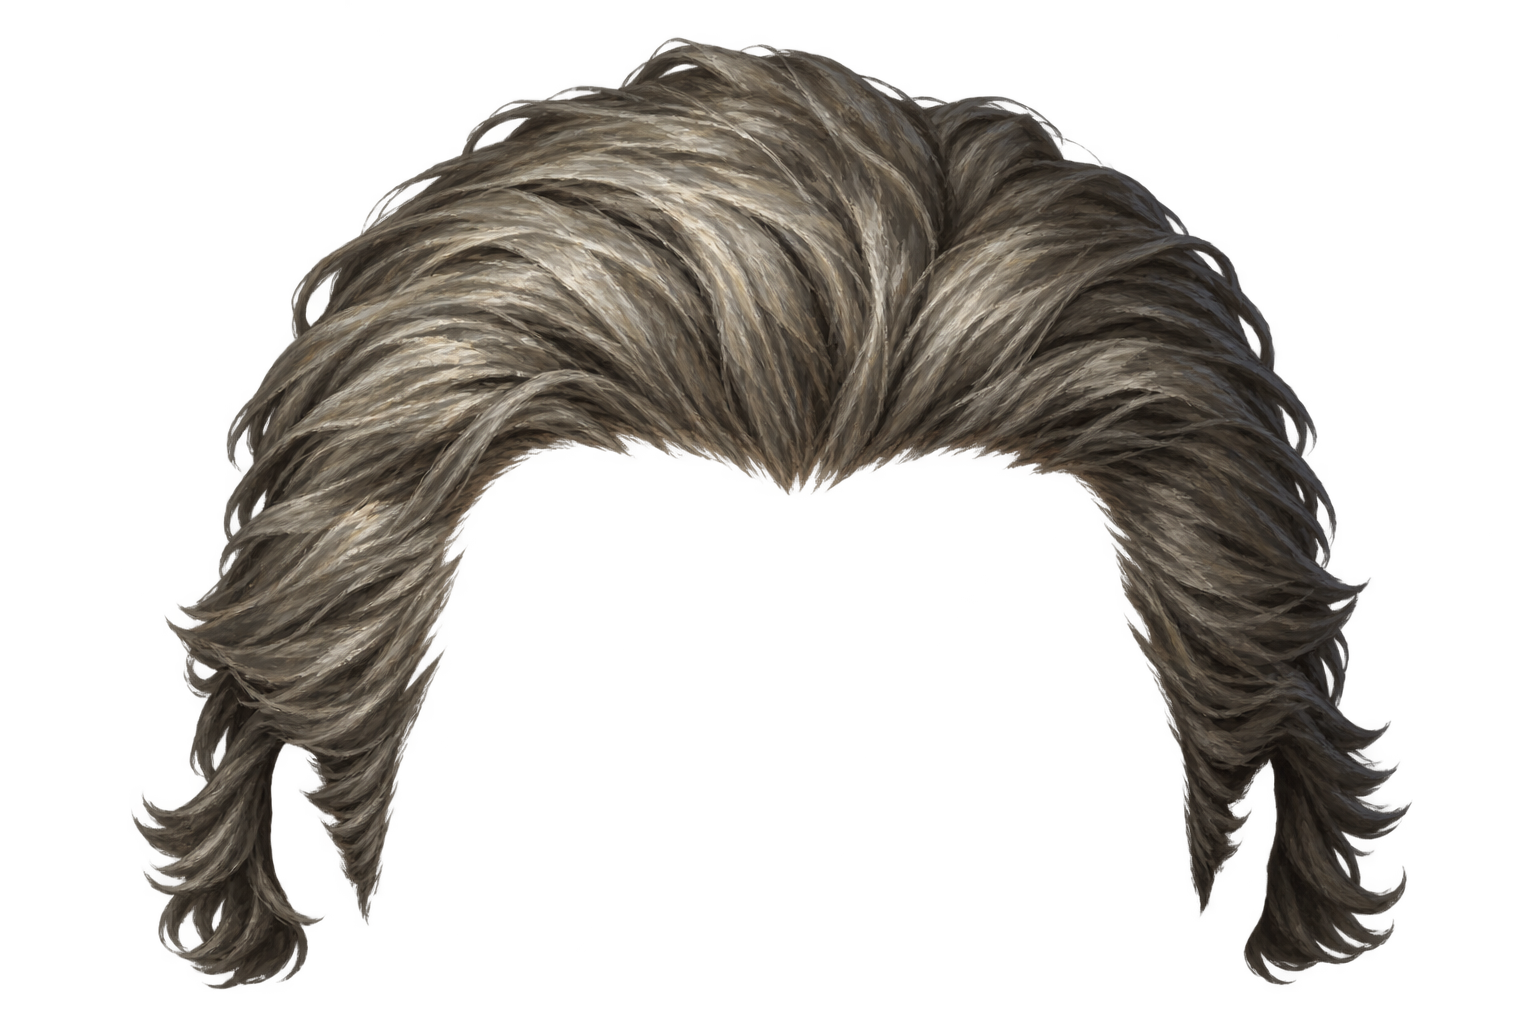
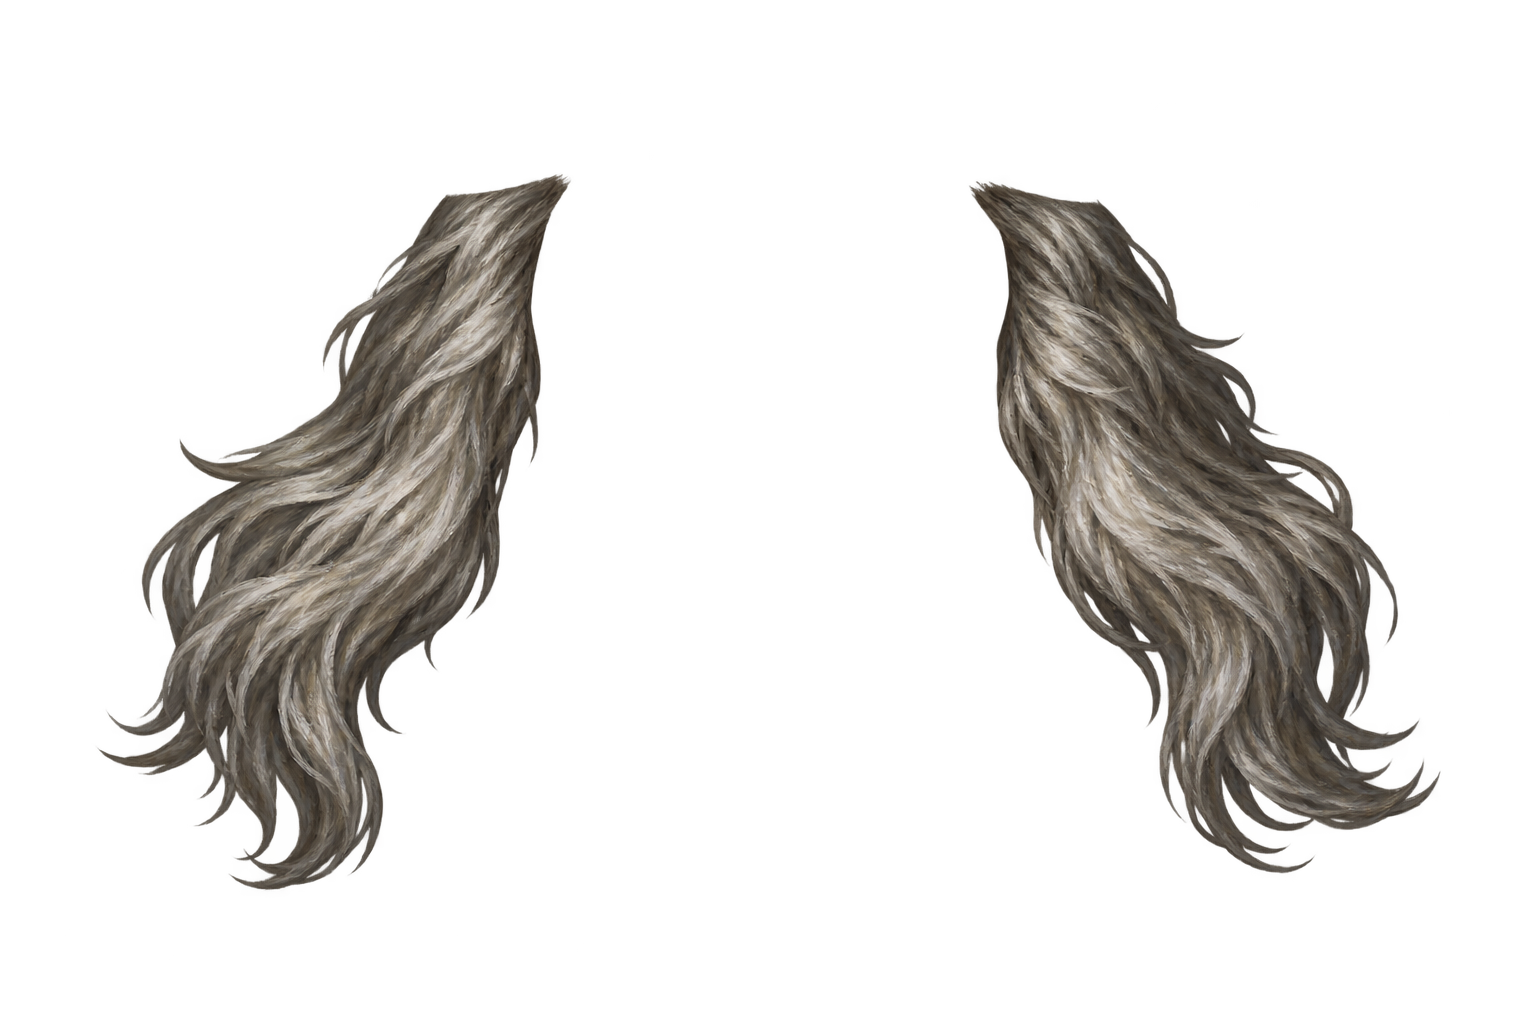
fix: generate runelord dwarf hair below helmet

diff --git a/materials/portraits/generated-features/RunelordDwarf.mesh/prompts.md b/materials/portraits/generated-features/RunelordDwarf.mesh/prompts.md
@@ -12,11 +12,11 @@ Generate a NEW standalone customization asset for an adult male RunelordDwarf. R
 
 ## hair - 1 - swept
 
-Generate a NEW standalone customization asset for an adult male RunelordDwarf. Reference ONLY for anatomy, palette, clothing and brushwork. Variation: a swept-back hairstyle with the exact reference hair color and texture; only hair that can show outside any headwear. Output ONLY isolated SCALP HAIR, NO beard, NO moustache, NO facial hair, NO head, NO face, NO skin, NO helmet, NO body. Hand-painted dark fantasy strategy-game style matching reference. Preserve species anatomy and reference clothing coverage; never invent tusks absent from reference. Complete contour centered with transparent padding and genuine alpha background. No scenery, text, glow, fog or full portrait. Direct isolated-feature generation, never full-image cropping.
+Generate a NEW standalone customization asset for an adult male RunelordDwarf. Reference ONLY for anatomy, palette, clothing and brushwork. Variation: a swept-back hairstyle with the exact reference hair color and texture; only hair that can show outside any headwear; ONLY two DISCONNECTED grey-white side hair strands that begin BELOW helmet sides; transparent gap between strands, absolutely NO upper scalp hair, NO crown, NO fringe, NO continuous wig or arch, NO helmet, no beard or moustache. Output ONLY isolated SCALP HAIR, NO beard, NO moustache, NO facial hair, NO head, NO face, NO skin, NO helmet, NO body. Hand-painted dark fantasy strategy-game style matching reference. Preserve species anatomy and reference clothing coverage; never invent tusks absent from reference. Complete contour centered with transparent padding and genuine alpha background. No scenery, text, glow, fog or full portrait. Direct isolated-feature generation, never full-image cropping.
 
 ## hair - 2 - waves
 
-Generate a NEW standalone customization asset for an adult male RunelordDwarf. Reference ONLY for anatomy, palette, clothing and brushwork. Variation: a fuller wavy hairstyle with the exact reference hair color and texture; only hair that can show outside any headwear; visibly different from swept-back hair: loose flowing waves, no ponytail or hair tie. Output ONLY isolated SCALP HAIR, NO beard, NO moustache, NO facial hair, NO head, NO face, NO skin, NO helmet, NO body. Hand-painted dark fantasy strategy-game style matching reference. Preserve species anatomy and reference clothing coverage; never invent tusks absent from reference. Complete contour centered with transparent padding and genuine alpha background. No scenery, text, glow, fog or full portrait. Direct isolated-feature generation, never full-image cropping.
+Generate a NEW standalone customization asset for an adult male RunelordDwarf. Reference ONLY for anatomy, palette, clothing and brushwork. Variation: a fuller wavy hairstyle with the exact reference hair color and texture; only hair that can show outside any headwear; visibly different from swept-back hair: loose flowing waves, no ponytail or hair tie; ONLY two DISCONNECTED grey-white side hair strands that begin BELOW helmet sides; transparent gap between strands, absolutely NO upper scalp hair, NO crown, NO fringe, NO continuous wig or arch, NO helmet, no beard or moustache. Output ONLY isolated SCALP HAIR, NO beard, NO moustache, NO facial hair, NO head, NO face, NO skin, NO helmet, NO body. Hand-painted dark fantasy strategy-game style matching reference. Preserve species anatomy and reference clothing coverage; never invent tusks absent from reference. Complete contour centered with transparent padding and genuine alpha background. No scenery, text, glow, fog or full portrait. Direct isolated-feature generation, never full-image cropping.
 
 ## eyes - 1 - narrow
 
